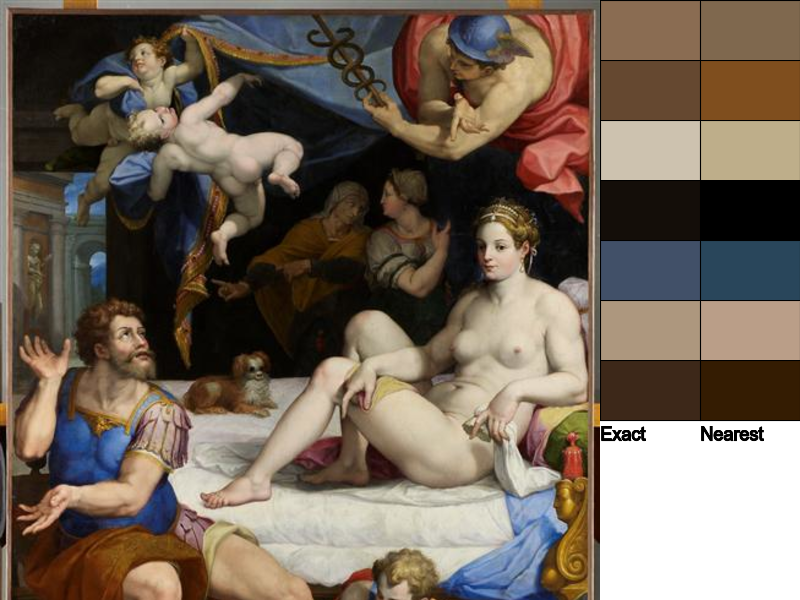
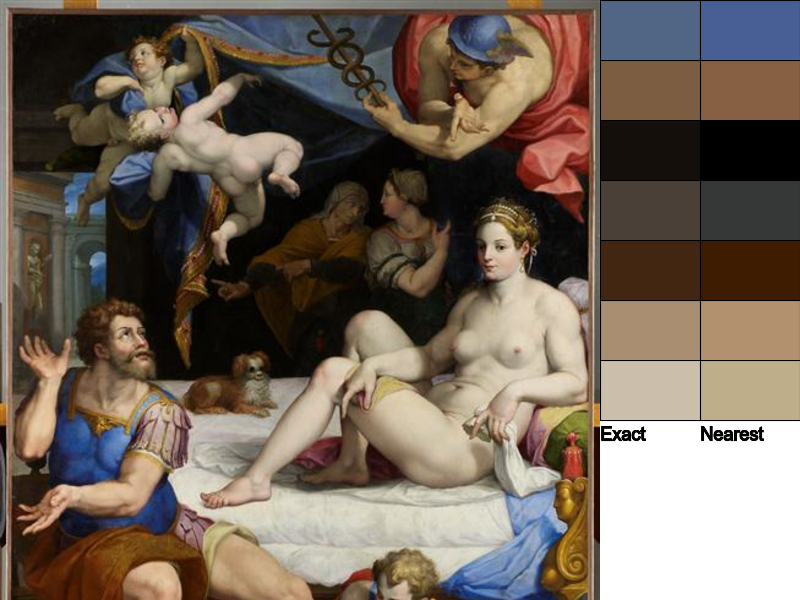
Add python opencv script.

Changed region(s): [[0.75, 0.0, 1.0, 0.72]]

diff --git a/python/opencv_k_means.py b/python/opencv_k_means.py
@@ -1,0 +1,93 @@
+from sklearn.cluster import KMeans
+import argparse
+import numpy as np
+import cv2
+from wand.image import Image
+from wand.drawing import Drawing
+from wand.color import Color
+from wand.display import display
+from colormath.color_diff import delta_e_cie2000
+from colormath.color_objects import LabColor, sRGBColor
+from colormath.color_conversions import convert_color
+import yaml
+
+def centroid_histogram(clt):
+    numLabels = np.arange(0, len(np.unique(clt.labels_)) + 1)
+    (hist, _) = np.histogram(clt.labels_, bins = numLabels)
+
+    hist = hist.astype("float")
+    hist /= hist.sum()
+
+    return hist
+
+
+def colorz(hist, centroids):
+    c = []
+    for (percent, color) in zip(hist, centroids):
+        c.append({'color': color, 'percent': percent})
+    return c
+
+def hex_to_lab(hx):
+    rgb = sRGBColor.new_from_rgb_hex(hx)
+    return convert_color(rgb, LabColor)
+
+def rgb_to_hex(r, g, b):
+    return sRGBColor(r, g, b, is_upscaled=True).get_rgb_hex()
+
+def closest_color(hx):
+    if color_list.has_key(hx): return color_list[hx]
+    distances = {}
+    lab = hex_to_lab(hx)
+    for key in color_list.keys():
+        distances[key] = delta_e_cie2000(lab, hex_to_lab(key))
+    return min(distances, key=distances.get)
+
+
+ap = argparse.ArgumentParser()
+ap.add_argument("-i", "--image", required = True, help = "Path to the image")
+ap.add_argument("-c", "--clusters", required = True, type = int, help = "# of clusters")
+ap.add_argument("-o", "--output", help="Filename to save image")
+ap.add_argument("-p", "--palette", required=True, help="Color palette path (yaml)")
+args = vars(ap.parse_args())
+
+image = cv2.imread(args["image"])
+image = cv2.cvtColor(image, cv2.COLOR_BGR2RGB)
+
+image = image.reshape((image.shape[0] * image.shape[1], 3))
+
+clt = KMeans(n_clusters = args["clusters"])
+clt.fit(image)
+
+hist = centroid_histogram(clt)
+colors = colorz(hist, clt.cluster_centers_)
+
+width = 800
+height = 600
+color_width = 100
+color_height = 60
+
+color_list = yaml.load(open(args['palette'], 'r'))
+
+with Drawing() as draw:
+    draw.stroke_color = Color("black")
+    for i, color in enumerate(colors):
+        near = closest_color(rgb_to_hex(color['color'][0], color['color'][1], color['color'][2]))
+        exact = "rgb({0},{1},{2})".format(color['color'][0], color['color'][1], color['color'][2])
+        draw.fill_color = Color(exact)
+        draw.rectangle(left=(width - color_width * 2), top=color_height * i, width=color_width, height=color_height)
+        draw.fill_color = Color("#" + near)
+        draw.rectangle(left=width - color_width, top=color_height * i, width=color_width, height=color_height)
+        t = "#" + near + " - %d%%" % int(color['percent'] * 100)
+        draw.text(width - (color_width), (color_height * i) + (color_height / 2), t)
+
+    with Image(width=width, height=height, background=Color('white')) as img:
+        i = Image(filename=args['image'])
+        i_width = width - (color_width * 2)
+        i_height = i.height / (float(i.width) / i_width)
+        draw.composite(operator='over', left=0, top=0, width=i_width, height=i_height, image=i)
+
+        draw.draw(img)
+        if args['output'] == None:
+            display(img)
+        else:
+            img.save(filename=args['output'])
